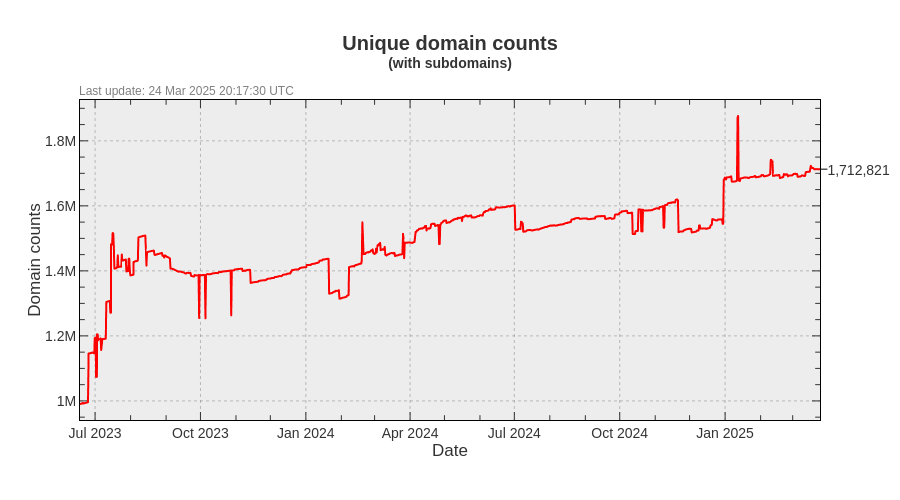
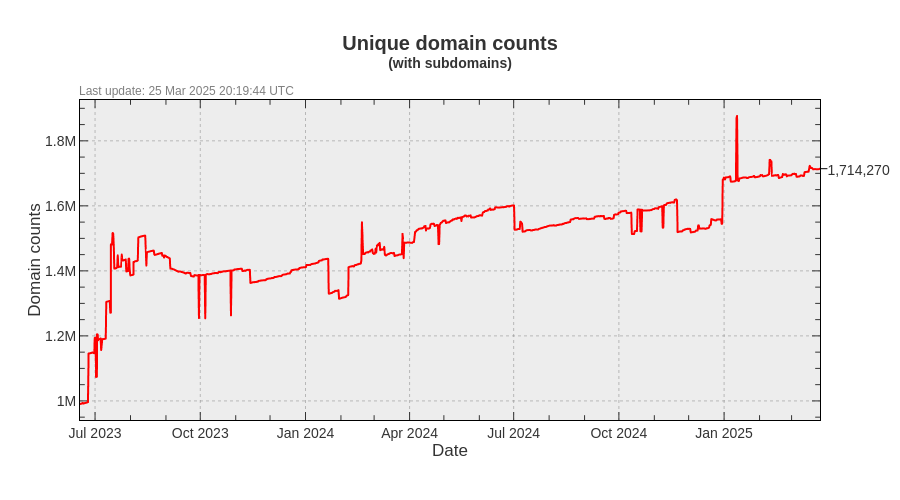
Update pages

diff --git a/README.md b/README.md
@@ -3,22 +3,22 @@ A blacklist file for blocking ads, trackers and malware domains.
 
[1 lines of base64/hex data omitted]
 
-- Unique domains: 1,712,821
-- Without subdomains: 1,100,422
-- Last update: 24 Mar 2025 20:17:30 UTC
-- Version: 2025.03.24.01
+- Unique domains: 1,714,270
+- Without subdomains: 1,101,690
+- Last update: 25 Mar 2025 20:19:44 UTC
+- Version: 2025.03.25.01
 
 
 ### Downloads:
 
 | Format             | Domain count      | Download Link |
 |:------------------ | -----------------:|:-------------:|
-| *Adblock Plus*     | 1,100,422 | [Download](https://dl.cenk.app/bad-hosts/bad-hosts-abp) |
-| *Wildcard domains* | 1,100,422 | [Download](https://dl.cenk.app/bad-hosts/bad-hosts-wildcard) |
-| *dnsmasq*          | 1,100,422 | [Download](https://dl.cenk.app/bad-hosts/bad-hosts-dnsmasq) |
-| *Unbound*          | 1,100,422 | [Download](https://dl.cenk.app/bad-hosts/bad-hosts-unbound) |
-| *hosts*            | 1,712,821 | [Download](https://dl.cenk.app/bad-hosts/hosts) |
-| *hosts (ipv6)*     | 1,712,821 | [Download](https://dl.cenk.app/bad-hosts/hosts-ipv6) |
-| *Plain domains*    | 1,712,821 | [Download](https://dl.cenk.app/bad-hosts/bad-hosts-domains) |
+| *Adblock Plus*     | 1,101,690 | [Download](https://dl.cenk.app/bad-hosts/bad-hosts-abp) |
+| *Wildcard domains* | 1,101,690 | [Download](https://dl.cenk.app/bad-hosts/bad-hosts-wildcard) |
+| *dnsmasq*          | 1,101,690 | [Download](https://dl.cenk.app/bad-hosts/bad-hosts-dnsmasq) |
+| *Unbound*          | 1,101,690 | [Download](https://dl.cenk.app/bad-hosts/bad-hosts-unbound) |
+| *hosts*            | 1,714,270 | [Download](https://dl.cenk.app/bad-hosts/hosts) |
+| *hosts (ipv6)*     | 1,714,270 | [Download](https://dl.cenk.app/bad-hosts/hosts-ipv6) |
+| *Plain domains*    | 1,714,270 | [Download](https://dl.cenk.app/bad-hosts/bad-hosts-domains) |
 
 
